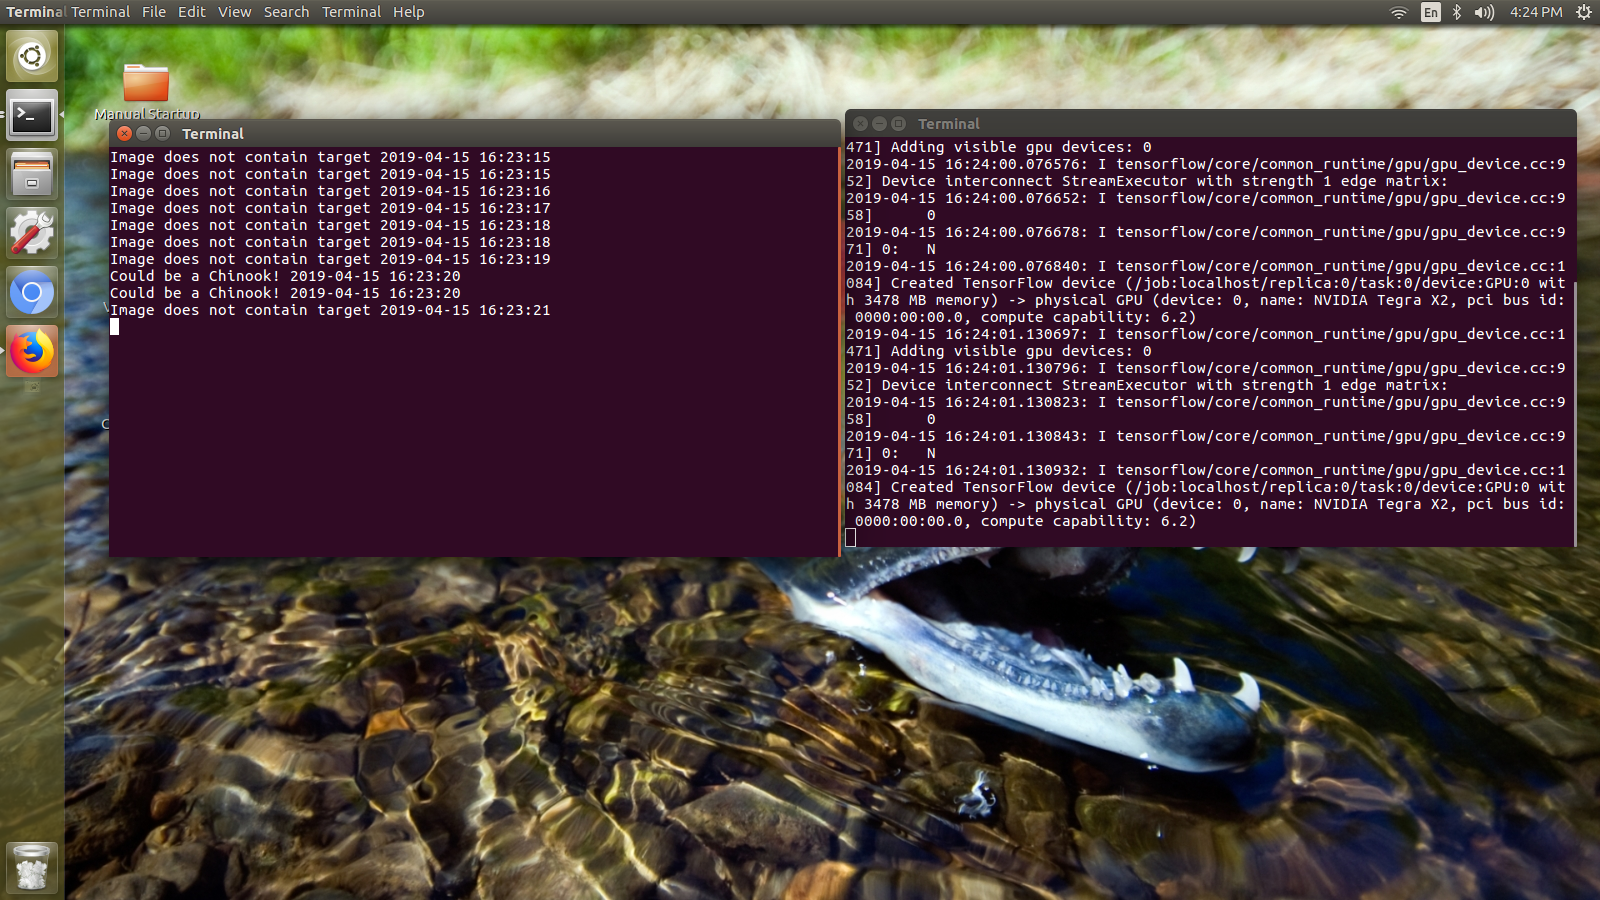
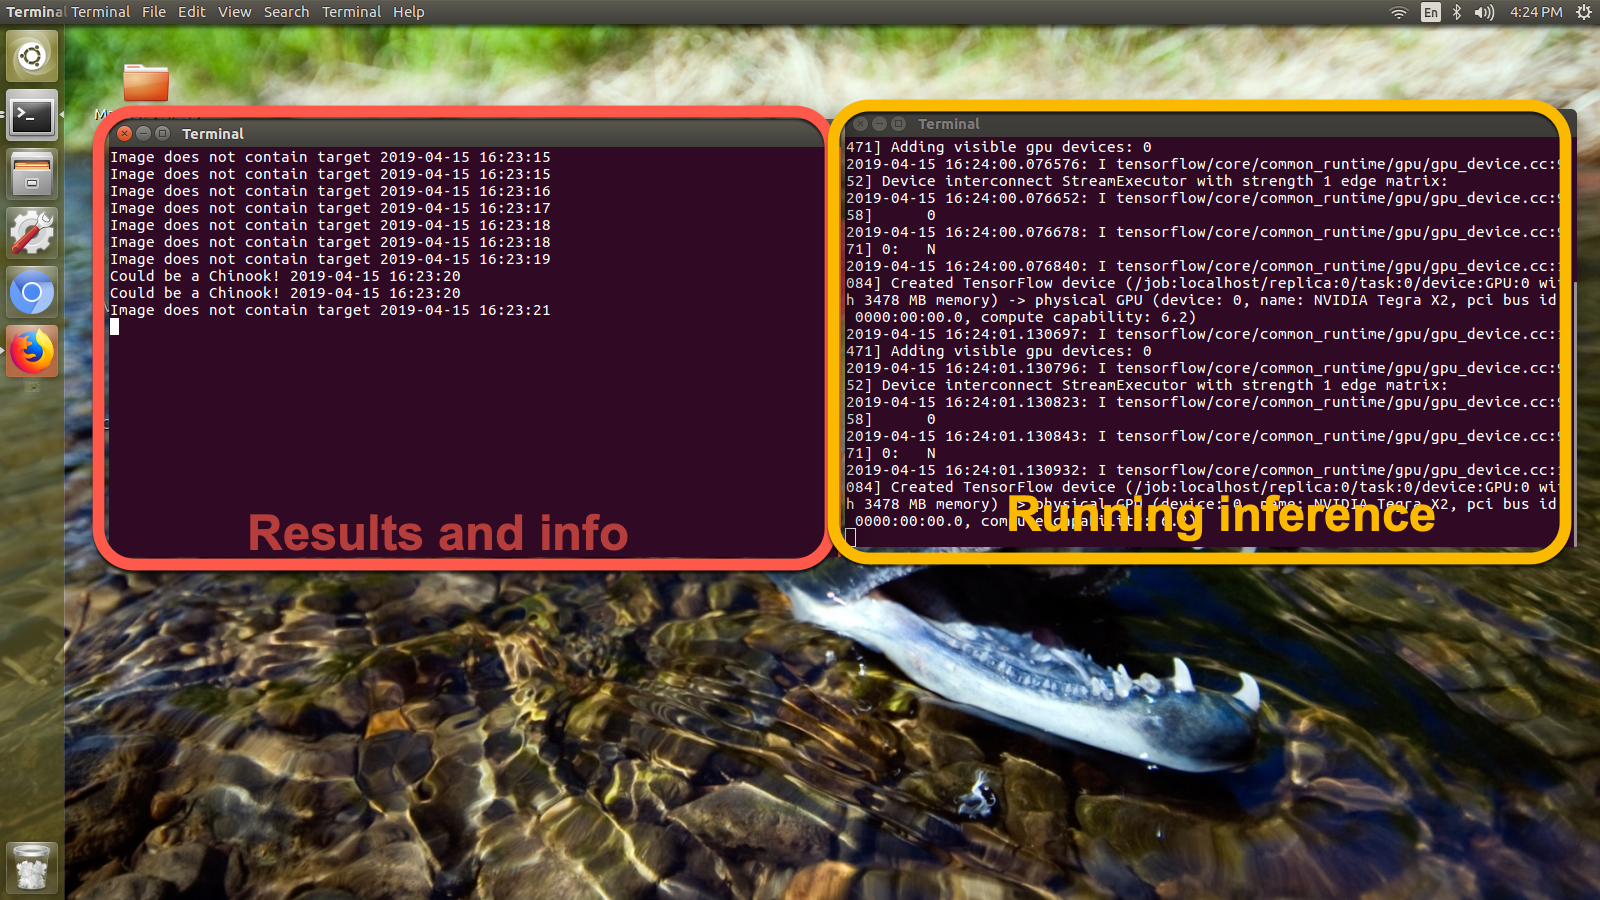
images

Changed region(s): [[0.0312, 0.0933, 1.0, 0.6533]]

diff --git a/README.md b/README.md
@@ -56,7 +56,29 @@ TF_inference
 
 The Jetsonboard TX2 is configured to run all needed commands on boot up so no need to run them manually; however, in order to accomplish this the `.profile` and `/etc/sudoers` files were altered. There is a backup of sudoers at `/root/sudoers.bak`.
 
-### Running inference manually
+On boot up there are a few scripts that prepare the rover for an expedition; namely, all the directories needed for proper operation are created if they are missing, the Jetsonboard is set to max settings (max GPU frequency), and program to gather images is spun up.
+
+In other words the rover is in **capture** mode and is only capturing images to store them into disk. By default the inference running task is done at the lab once the rover navigation is over.
+
+### View resuts and run inference
+
+When the Jetson is turned on it automatically logs into the `nvidia` user directly onto the user's Desktop. At the Desktop there are two icons that are used to run inference on the captured images:
+
+1. Double click `View Inference Log`
+
+> Starts a new shell showing live output of the inference program
+
+2. Double click `Inference`
+
+>Starts the `run_inference.py` program
+
+![run](assets/home.png)
+
+There will be two need windows open that will start the program and show it's status
+
+![run](assets/run.png)
+
+#### Running inference manually
 
 You would want to do this if you're working on the model on your local computer or an AWS instance. Just create the model and feed the `run_inference.py` script your frozen graph in the form of a **.pb** file and your labels in a **.txt** file.
 
@@ -83,10 +105,10 @@ Finally run both processes to get started
 ~~~bash
 cd ~/TF_Inference/
 
-python snapshots.py
+python snapshots.py &
 
 # Open a new terminal
-sudo python run_inference.py \
+sudo python3 run_inference.py \
 --graph tf_files/mobile_net_fish_of_guadalupe_graph.pb \
 --labels tf_files/mobile_net_guadalupe_labels.txt
 ~~~
@@ -145,3 +167,10 @@ config.gpu_options.allow_growth = True
 ~~~
 
 but this alone did not solve the problem. Additionally you must run the inference program with **sudo** permissions, and if python3 fails use python2.7
+
+Another problem is running out of memory while running inference to check on the status of the memory run these commands
+
+~~~bash
+cd ~/
+./tegrastats.sh
+~~~
